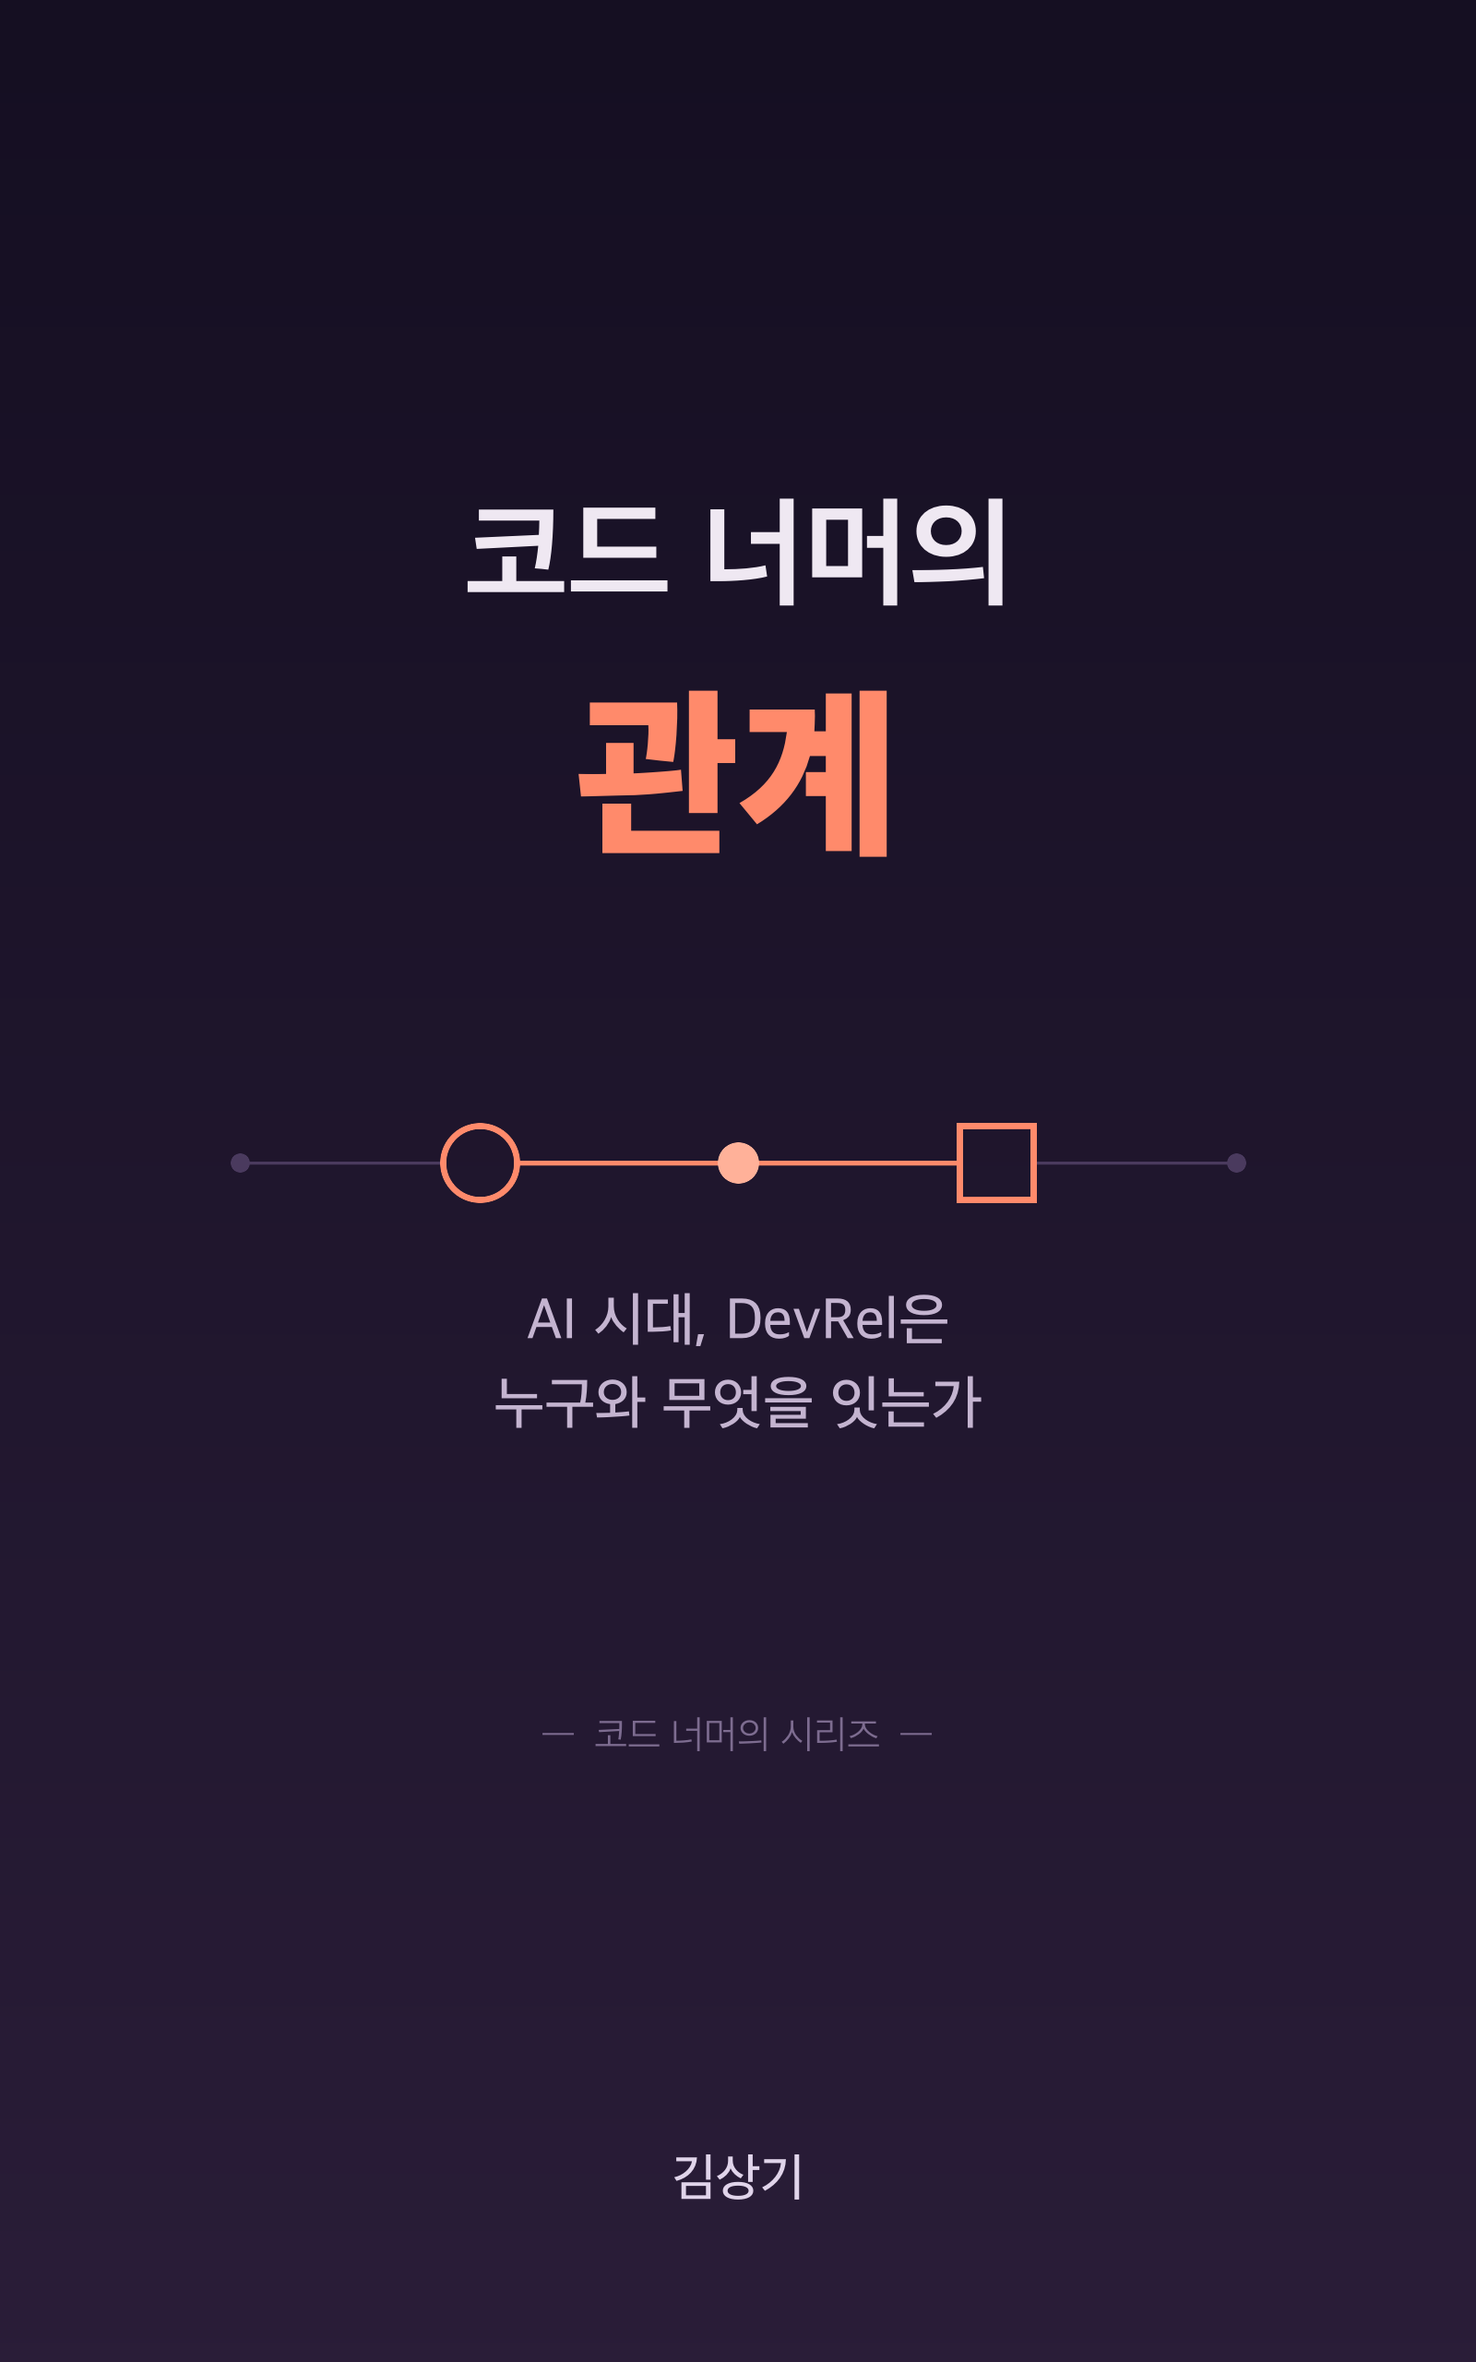
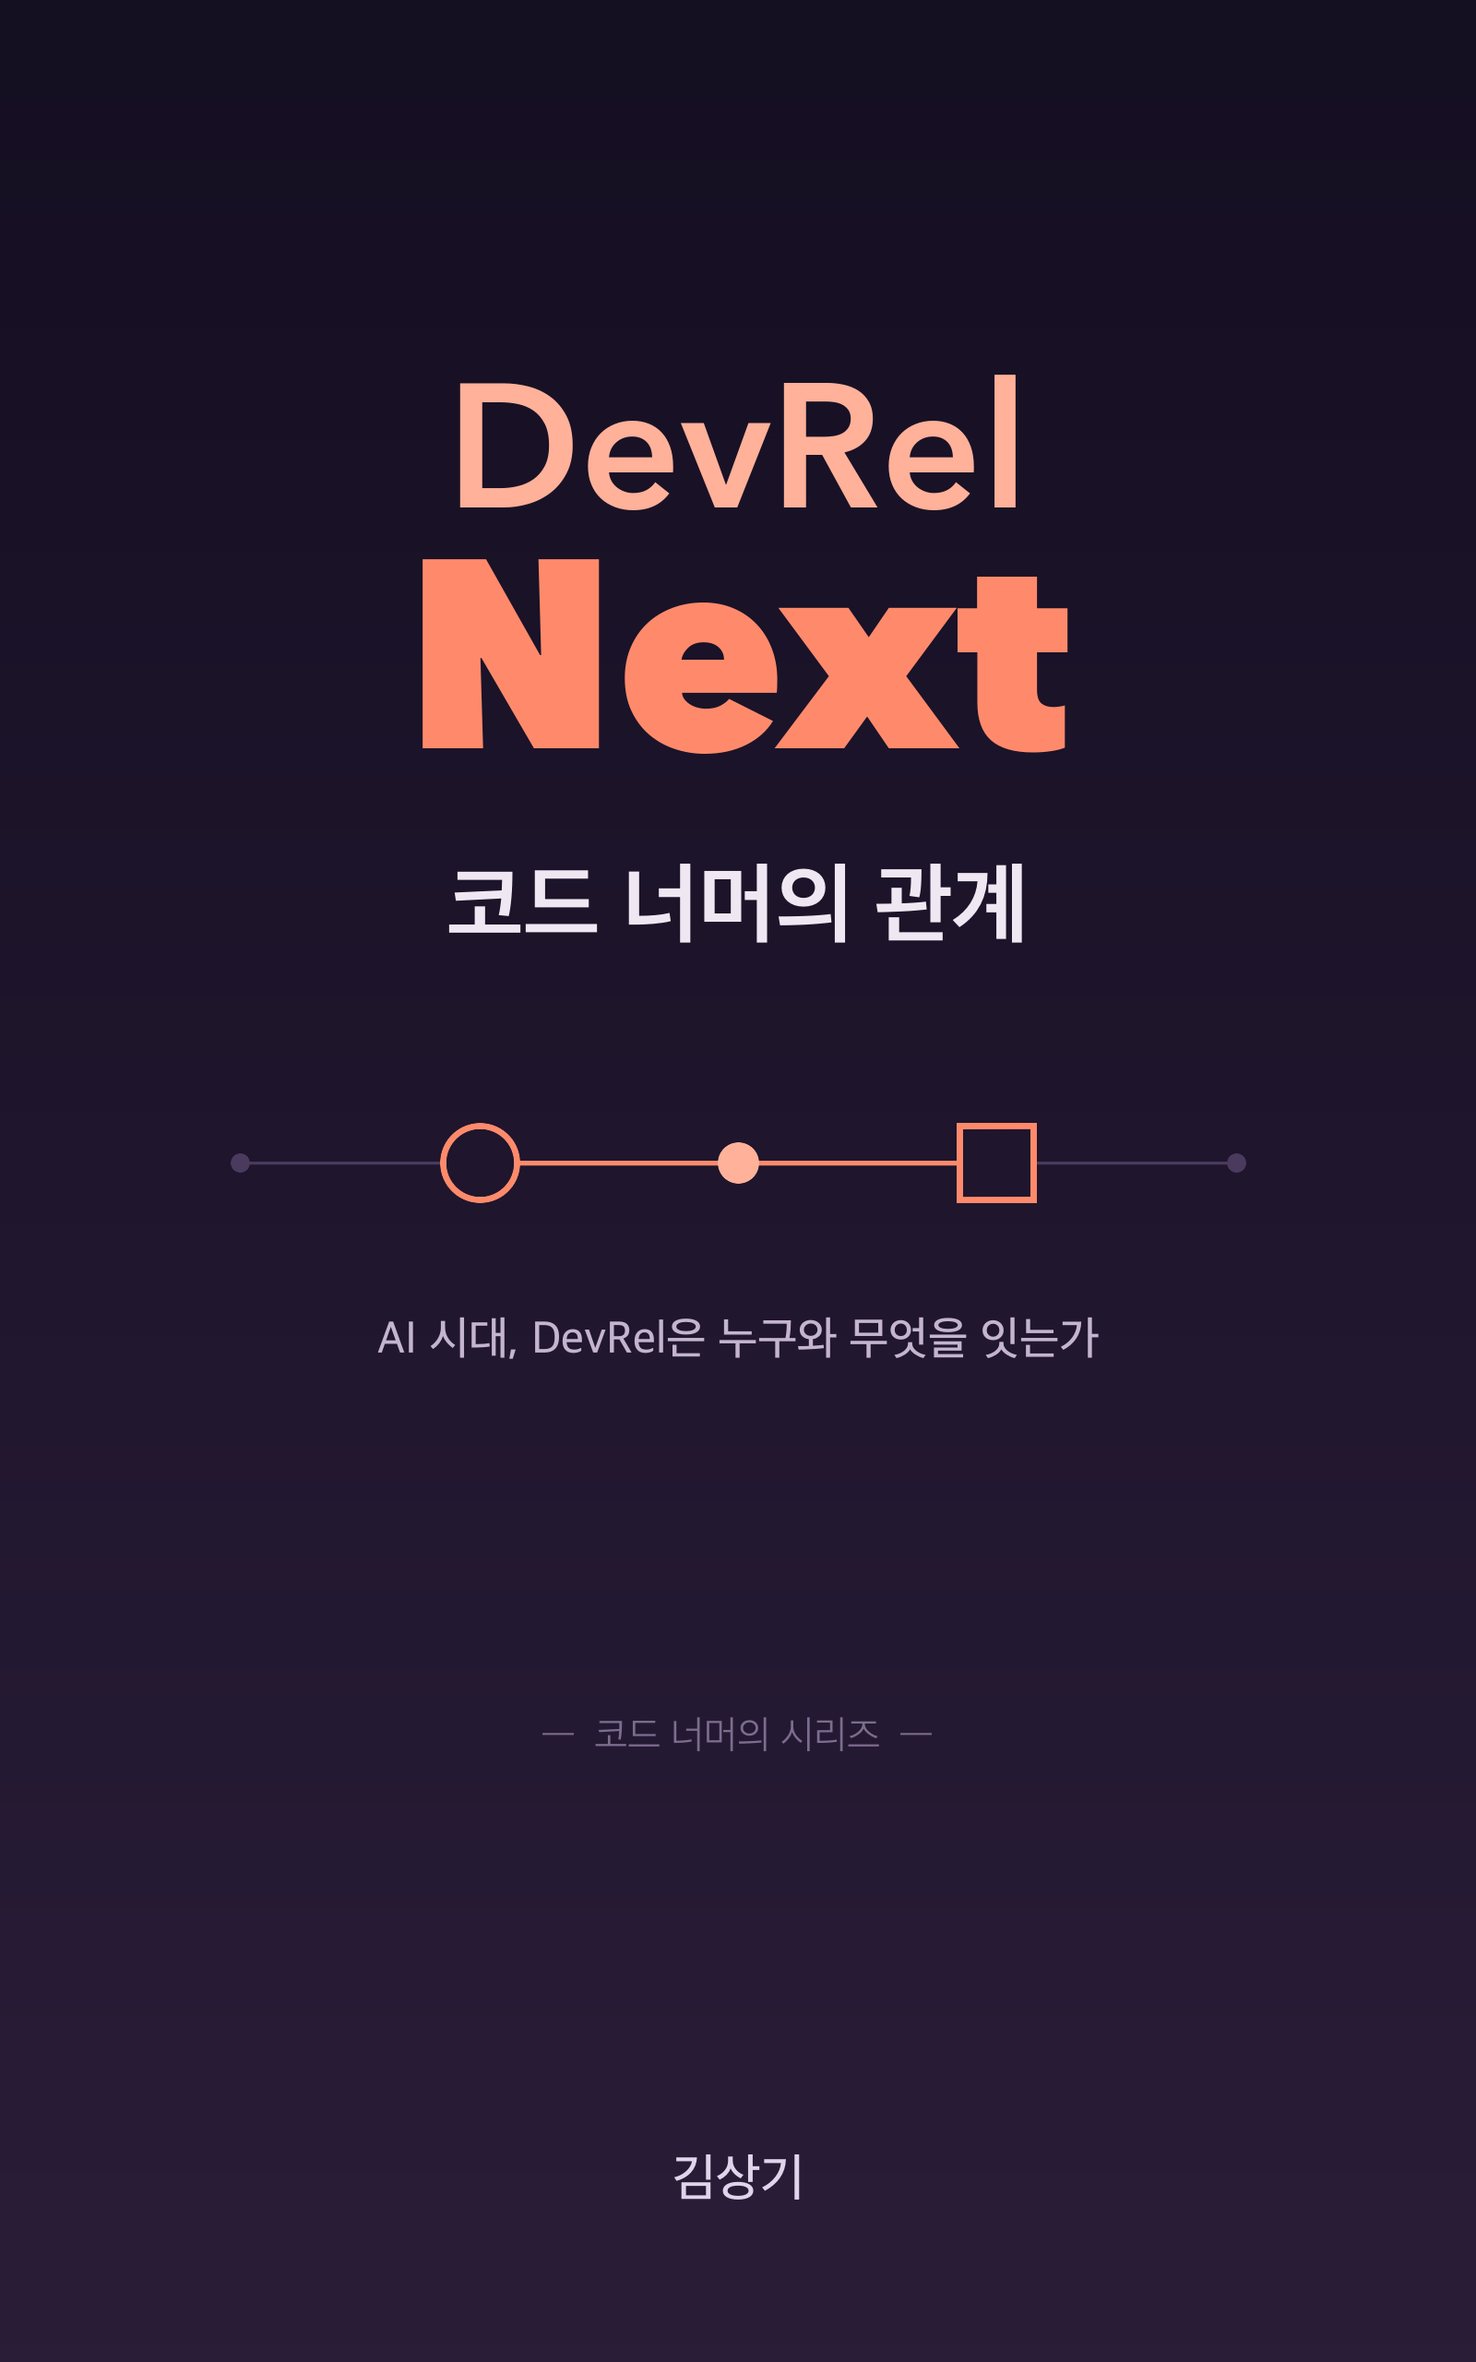
devrel-next v1.0.1: 제목 「DevRel Next — 코드 너머의 관계」로 변경(서문 제목 절·표지·매니페스트), 4.5 R4 ACCEPT, 웹 빌더(tools/build_web.py)

Changed region(s): [[0.2812, 0.1562, 0.7188, 0.4062], [0.3125, 0.5312, 0.7188, 0.625], [0.25, 0.5625, 0.2812, 0.5938]]

diff --git a/devrel-next/tools/build_web.py b/devrel-next/tools/build_web.py
@@ -1,0 +1,47 @@
+#!/usr/bin/env python3
+"""웹 버전 빌드 — EPUB을 원천으로 pandoc HTML + 그림 추출 + 반응형/다크모드 CSS.
+사용법: python3 build_web.py <epub> <출력 폴더>"""
+import sys, subprocess, pathlib, re
+epub, out = pathlib.Path(sys.argv[1]).resolve(), pathlib.Path(sys.argv[2]).resolve()
+out.mkdir(parents=True, exist_ok=True)
+subprocess.run(['pandoc', str(epub), '-f', 'epub', '-t', 'html5', '-s',
+                '--extract-media=media', '-o', 'index.html',
+                '--metadata', 'title=DevRel Next — 코드 너머의 관계', '--metadata', 'lang=ko'],
+               cwd=out, check=True)
+h = (out / 'index.html').read_text(encoding='utf-8')
+CSS = """<style>
+:root{--bg:#fbf9f6;--text:#231c2b;--muted:#6b5f76;--line:#e4dce8;--accent:#c4553a;--panel:#f3eef5;--code:#f1ecf3}
+@media (prefers-color-scheme:dark){:root:not([data-theme="light"]){--bg:#17121f;--text:#ece6f0;--muted:#a99cb6;--line:#342a40;--accent:#ff8a6b;--panel:#211a2c;--code:#241c30}}
+:root[data-theme="dark"]{--bg:#17121f;--text:#ece6f0;--muted:#a99cb6;--line:#342a40;--accent:#ff8a6b;--panel:#211a2c;--code:#241c30}
+html{-webkit-text-size-adjust:100%}
+body{background:var(--bg);color:var(--text);margin:0 auto;max-width:760px;padding:24px 16px 80px;
+ font-family:'Pretendard','Apple SD Gothic Neo','Noto Sans KR',sans-serif;font-size:17px;line-height:1.85;word-break:keep-all;overflow-wrap:anywhere}
+h1,h2,h3{line-height:1.35;text-wrap:balance}
+h1{font-size:1.9rem;margin-top:3.2rem;border-bottom:2px solid var(--accent);padding-bottom:.4rem}
+h2{font-size:1.35rem;margin-top:2.4rem} h3{font-size:1.1rem}
+a{color:var(--accent)} blockquote{margin:1.2rem 0;padding:.6rem 1rem;border-left:4px solid var(--accent);background:var(--panel);color:var(--text)}
+table{border-collapse:collapse;display:block;overflow-x:auto;max-width:100%;font-size:.92rem;margin:1.2rem 0}
+th,td{border:1px solid var(--line);padding:.45rem .65rem;vertical-align:top} th{background:var(--panel)}
+img,svg{max-width:100%;height:auto} figure{margin:1.6rem 0;text-align:center}
+figure img{background:#fff;border-radius:8px;padding:8px} figcaption{color:var(--muted);font-size:.9rem}
+code{background:var(--code);padding:.1em .3em;border-radius:4px} pre{background:var(--code);padding:1rem;overflow-x:auto}
+hr{border:0;border-top:1px solid var(--line);margin:2.4rem 0}
+.cover-hero{text-align:center;margin:8px 0 32px} .cover-hero img{max-width:320px;width:70%;border-radius:10px;box-shadow:0 12px 32px rgba(0,0,0,.25)}
+.dl{display:flex;gap:12px;justify-content:center;flex-wrap:wrap;margin:16px 0 8px;font-size:.95rem}
+.dl a{border:1px solid var(--accent);padding:.35rem .9rem;border-radius:999px;text-decoration:none}
+</style>"""
+# EPUB 속 표지(인라인 SVG, 웹에선 경로가 깨짐)는 hero와 중복이라 제거
+h = re.sub(r'<svg[^>]*>(?:(?!</svg>).)*?media/[^"]+\.png(?:(?!</svg>).)*?</svg>', '', h, count=1, flags=re.S)
+h = re.sub(r'<p><img src="media/[^"]+\.png" /></p>', '', h)
+h = re.sub(r'<header id="title-block-header">.*?</header>', '', h, count=1, flags=re.S)
+# 그림: <p><img src=X /> 그림 N. 캡션</p> → figure + alt
+h = re.sub(r'<p><img src="([^"]+)" />\s*(그림 \d+\.[^<]*)</p>',
+           lambda m: f'<figure><img src="{m.group(1)}" alt="{m.group(2).strip()}" /><figcaption>{m.group(2).strip()}</figcaption></figure>', h)
+h = re.sub(r'<style>.*?</style>', '', h, flags=re.S).replace('</head>', CSS + '\n</head>', 1)
+hero = ('<div class="cover-hero"><img src="cover.png" alt="「DevRel Next — 코드 너머의 관계」 표지" />'
+        f'<div class="dl"><a href="epub/{epub.name}">EPUB 내려받기</a><a href="BOOK.md">책 소개</a>'
+        '<a href="https://github.com/ksangki/devrel-next">GitHub</a></div></div>')
+h = re.sub(r'(<body[^>]*>)', r'\1\n' + hero, h, count=1)
+(out / 'index.html').write_text(h, encoding='utf-8')
+for png in (out / 'media').rglob('*.png'): png.unlink()  # 표지 사본 — 웹은 루트 cover.png 사용
+print('web build 완료:', out / 'index.html', '· media', len(list((out / 'media').rglob('*'))) if (out/'media').exists() else 0)

diff --git a/devrel-next/tools/editor/assemble.py b/devrel-next/tools/editor/assemble.py
@@ -5,8 +5,8 @@ import re, pathlib
 BOOK = pathlib.Path('/Users/1112022/source/github/book-writer/devrel-next')
 SCR = pathlib.Path(__file__).parent
 IDENT = 'urn:uuid:2e3ab927-3a44-4ede-b169-e0253729973c'
-TITLE, SUB = '코드 너머의 관계', 'AI 시대, DevRel은 누구와 무엇을 잇는가'
-VER, DATE, AUTHOR = '1.0.0', '2026-09-25', '김상기'
+TITLE, SUB = 'DevRel Next', '코드 너머의 관계'
+VER, DATE, AUTHOR = '1.0.1', '2026-09-25', '김상기'
 HV = (BOOK.parent / 'VERSION').read_text().strip().lstrip('v')
 
 # 편집 수정: (장, 원문, 교체문, 전부교체 여부)

diff --git a/devrel-next/style_log.md b/devrel-next/style_log.md
@@ -567,3 +567,25 @@
 - Nice 1(선택): PART 4 도입 끝 "무엇을 보면 어느 쪽이 맞는지 알 수 있을까? 이 물음을 들고 8장으로 들어가자." — 10장 이야기에 붙은 질문을 들고 8장으로 들어가는 흐름이 살짝 튄다. "이 물음은 10장에서 다시 만난다. 먼저 8장으로 들어가자." 정도
 - 결과: **통과(합의).** 통합 원고 라운드 수 2
 
+## 재제목 검수 (v1.0.1)
+
+- 대상: `04_manuscript.md` 표제·판권 제목 줄 + 서문 "## 제목에 대하여" 두 문단(원본 `tools/editor/front.md`) · 요청 team-lead · 판정 2026-09-25
+- 표제·판권: "DevRel Next / 코드 너머의 관계", 판본 v1.0.1 — 비대구, 문제 없음
+- 둘째 문단: 공개 이력 문구 정확("데브챗 커뮤니티 출신 7인 공저 『코드 너머, 회사보다 오래 남을 개발자』(한빛미디어, 2025)의 저자 가운데 한 사람") O · 전작 언급 1~2문장 O · 대구 0
+
+### 쟁점 문장
+
+> "이 책은 DevRel이라는 이름을 버리자고 하지 않는다. 그 이름으로 해오던 일이 다음에 어디로 가는지를 묻는다."
+
+- **대구 판정: 센다(1회).** 부정-긍정 문장 분리형("~하지 않는다. ~를 묻는다.")이다. 근거 고지 기능이 아니라 책의 입장을 강조하는 전환이므로 상한 적용 대상이다. 서문 대구는 R2의 0에서 1이 된다 — 상한 3 안.
+- **공인 대구 의미 변형: 경계.** "이름(유지)"과 "그 이름으로 해오던 일(이동)"을 한 짝으로 대비한다. 공인 대구("직함은 흩어지고 기능은 남는다")와 주장 방향은 반대(이름을 버리지 않는다)이지만, 이름/일을 대비 틀에 올리는 구도가 같다. 서문 R1에서 걸린 "이름은 다르고 동사는 겹친다"와 같은 계열이며, 공인 대구 3/3 소진 규율(10장 R1 누적 규율)의 취지에 걸린다.
+- **판정: 수정 권고(Should).** 상한 위반은 아니지만, 이 절은 책 제목을 설명하는 자리라 독자가 공인 대구의 변형으로 읽을 가능성이 가장 높다. 이름/일의 대비를 빼고 질문 하나로 바꾸는 것을 권한다.
+
+### front.md용 대체 문장
+
+- [원문] "제목 'DevRel Next'는 이 책 마지막 장의 제목 'DevRel 다음'을 영어로 옮긴 것이다. 이 책은 DevRel이라는 이름을 버리자고 하지 않는다. 그 이름으로 해오던 일이 다음에 어디로 가는지를 묻는다."
+- [대안 A — 권장] "제목 'DevRel Next'는 이 책 마지막 장의 제목 'DevRel 다음'을 영어로 옮긴 것이다. DevRel이 해오던 일이 다음에 어디로 가는지를 묻겠다는 뜻을 담았다."
+- [대안 B — 이름을 지킨다는 입장을 남기고 싶을 때] "제목 'DevRel Next'는 이 책 마지막 장의 제목 'DevRel 다음'을 영어로 옮긴 것이다. 제목에 DevRel이라는 이름을 그대로 둔 것은, 그 일이 다음에 어디로 가는지를 그 이름 곁에서 따라가 보려 해서다." (대비 틀 없음, 대구 0)
+- 대안 적용 시 서문 대구 0, 공인 변형 0.
+- 결과: **수정안 제시 (Should — 비블로킹).** 원문 유지 시에도 상한은 넘지 않으나 권장하지 않음.
+

diff --git a/devrel-next/build_log.md b/devrel-next/build_log.md
@@ -1,28 +1,25 @@
-# Build Log — 코드 너머의 관계 v1.0.0
+# Build Log — DevRel Next v1.0.1
 
-- **Date:** 2026-09-24T18:35:58Z
-- **Output:** `코드-너머의-관계-v1.0.0.epub`
-- **Size:** 295993 bytes
+- **Date:** 2026-09-25T00:20:48Z
+- **Output:** `DevRel-Next-v1.0.1.epub`
+- **Size:** 340855 bytes
 - **Pandoc exit:** 0
 - **epubcheck:** passed
 - **epubcheck strict:** 1
 - **mermaid:** rendered to figures/fig-NN.svg via mmdc
 - **images:** 5 local reference(s), all present
-- **cover alt:** injected alt="「코드 너머의 관계」 표지 — 짙은 자주색 바탕에 코랄색 제목, 원과 사각형을 한 줄로 잇는 중앙의 점"
+- **cover alt:** injected alt="「DevRel Next — 코드 너머의 관계」 표지 — 짙은 자주색 바탕에 코랄색 영문 제목, 원과 사각형을 한 줄로 잇는 중앙의 점"
 
 ## Metadata
-- title: 코드 너머의 관계
+- title: DevRel Next
 - author: 김상기
 - language: ko
-- version: 1.0.0
+- version: 1.0.1
 - pub_date: 2026-09-25
 - identifier: urn:uuid:2e3ab927-3a44-4ede-b169-e0253729973c
 - license: CC BY-NC-SA 4.0
 - genre: tech-book
-- cover_alt: 「코드 너머의 관계」 표지 — 짙은 자주색 바탕에 코랄색 제목, 원과 사각형을 한 줄로 잇는 중앙의 점
+- cover_alt: 「DevRel Next — 코드 너머의 관계」 표지 — 짙은 자주색 바탕에 코랄색 영문 제목, 원과 사각형을 한 줄로 잇는 중앙의 점
 - stylesheet: epub.css
 - harness_version: 1.11.0
 - rights: © 2026 김상기 — Licensed under CC BY-NC-SA 4.0
-
-## 책 소개 markdown
-- `코드-너머의-관계-v1.0.0.md` (프로젝트 루트, EPUB과 동일 stem)

diff --git a/devrel-next/factcheck_log.md b/devrel-next/factcheck_log.md
@@ -375,3 +375,12 @@
 - ✅ 권고 반영: L1595 Lovable 원제, L1623 Fortune 항목·URL(fact-checker 확인 주소와 일치), L1636 Lee Robinson 2025-07-21, L1664 Greenhalgh 부제, L1672 Robillard 부제
 - 잔존 검사: "Liu, M." / "Tailwind Labs. \"feat" / "3년 가까이" / "에서 비롯한 직함" 0건
 - **front/back matter 사실 검증 통과.** 미해소 없음. 본문 10장 + 앞뒤 부속 전 범위 미해소 0.
+
+## 재제목
+
+### 라운드 1 (2026-09-25, 04_manuscript.md 서문 "## 제목에 대하여" 두 문단 + 판권, v1.0.1)
+**❌ 0 · ⚠ 0 · 🕒 0 — 통과**
+- ✅ "이 책 마지막 장의 제목 'DevRel 다음'" — 10장(마지막 장) 제목 "10장. DevRel 다음 — 네 갈래 전망과 그 반대편"의 주제목 부분과 일치(04_manuscript.md L1273, chapters/10_final.md 첫 줄)
+- ✅ 공저 이력 문구 — 확정 문구 "데브챗 커뮤니티 출신 7인 공저 『코드 너머, 회사보다 오래 남을 개발자』(한빛미디어, 2025)"가 글자 그대로 유지됨. 뒤 서술만 "공저자 가운데 한 사람"→"저자 가운데 한 사람"으로 바뀌었고 사실 내용은 같다(7인 공저의 한 명)
+- ✅ 판권 — 제목 "DevRel Next — 코드 너머의 관계"·판본 v1.0.1·발행일 2026-09-25·식별자 urn:uuid:2e3ab927-… 가 book_manifest.json(title "DevRel Next", subtitle "코드 너머의 관계", version "1.0.1")과 일치. 표제면 판본도 v1.0.1
+- ✅ 잔존 검사 — 옛 부제 "AI 시대, DevRel은 누구와 무엇을 잇는가"·"v1.0.0" 원고 내 0건

diff --git a/devrel-next/cover_prompt.md b/devrel-next/cover_prompt.md
@@ -25,3 +25,16 @@
 
 ### 참고 alt 텍스트
 "「코드 너머의 관계」 표지 — 짙은 자주색 바탕에 코랄색 제목, 원과 사각형을 한 줄로 잇는 중앙의 점"
+
+## Version 2 (2026-09-25) — 제목 변경 반영
+
+- **사유:** 저자가 제목을 「DevRel Next」로, 부제를 "코드 너머의 관계"로 변경.
+- **백업:** 이전 표지 → `cover_v1.0.0.png`
+- **유지:** 팔레트, 원—점—사각형 연결선 모티프, 시리즈 표기, 저자, ImageMagick 방식.
+- **텍스트 계층 변경:**
+  - "DevRel" — Avenir-Next-Demi-Bold 190pt, `#ffb199`
+  - "Next" — Avenir-Next-Heavy 290pt, `#ff8a6b` (가장 크게 강조)
+  - "코드 너머의 관계" — Apple SD Gothic Neo Bold 96pt, `#efe8f2`
+  - 모티프 아래 태그라인 "AI 시대, DevRel은 누구와 무엇을 잇는가" — Medium 50pt, `#c4b4d0`, 한 줄
+- **검증:** 800폭·200폭 축소본을 직접 열어 확인. 한글·영문 모두 정상 렌더, 200폭에서도 "DevRel Next"와 "코드 너머의 관계"가 읽힘.
+- **alt 제안 갱신:** "「DevRel Next — 코드 너머의 관계」 표지 — 짙은 자주색 바탕에 코랄색 영문 제목, 원과 사각형을 한 줄로 잇는 중앙의 점"
